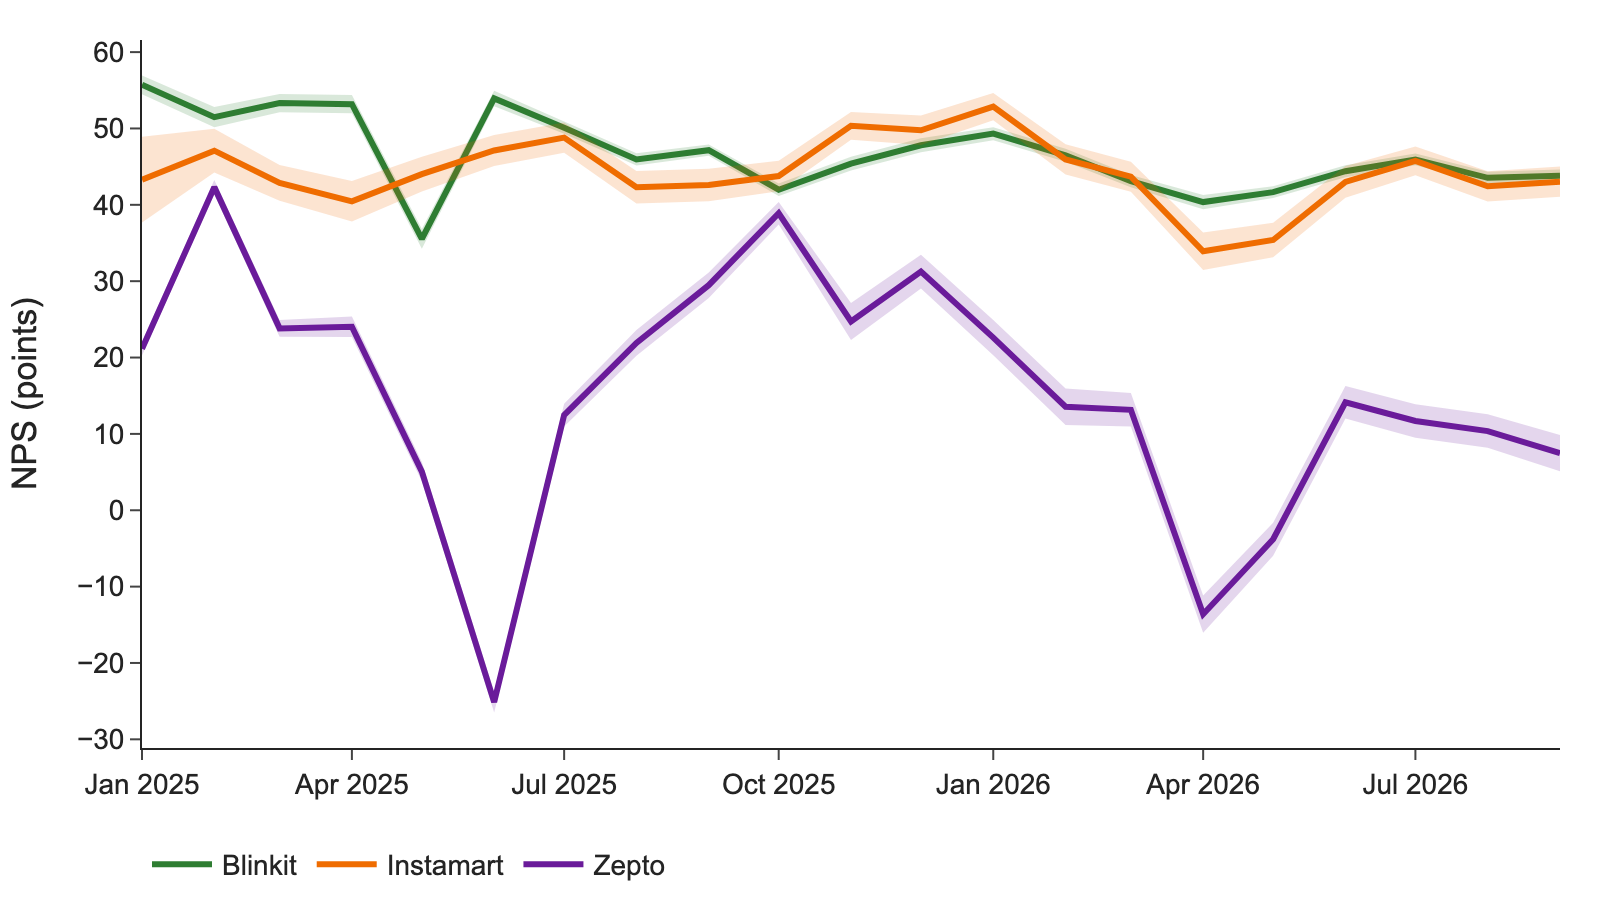
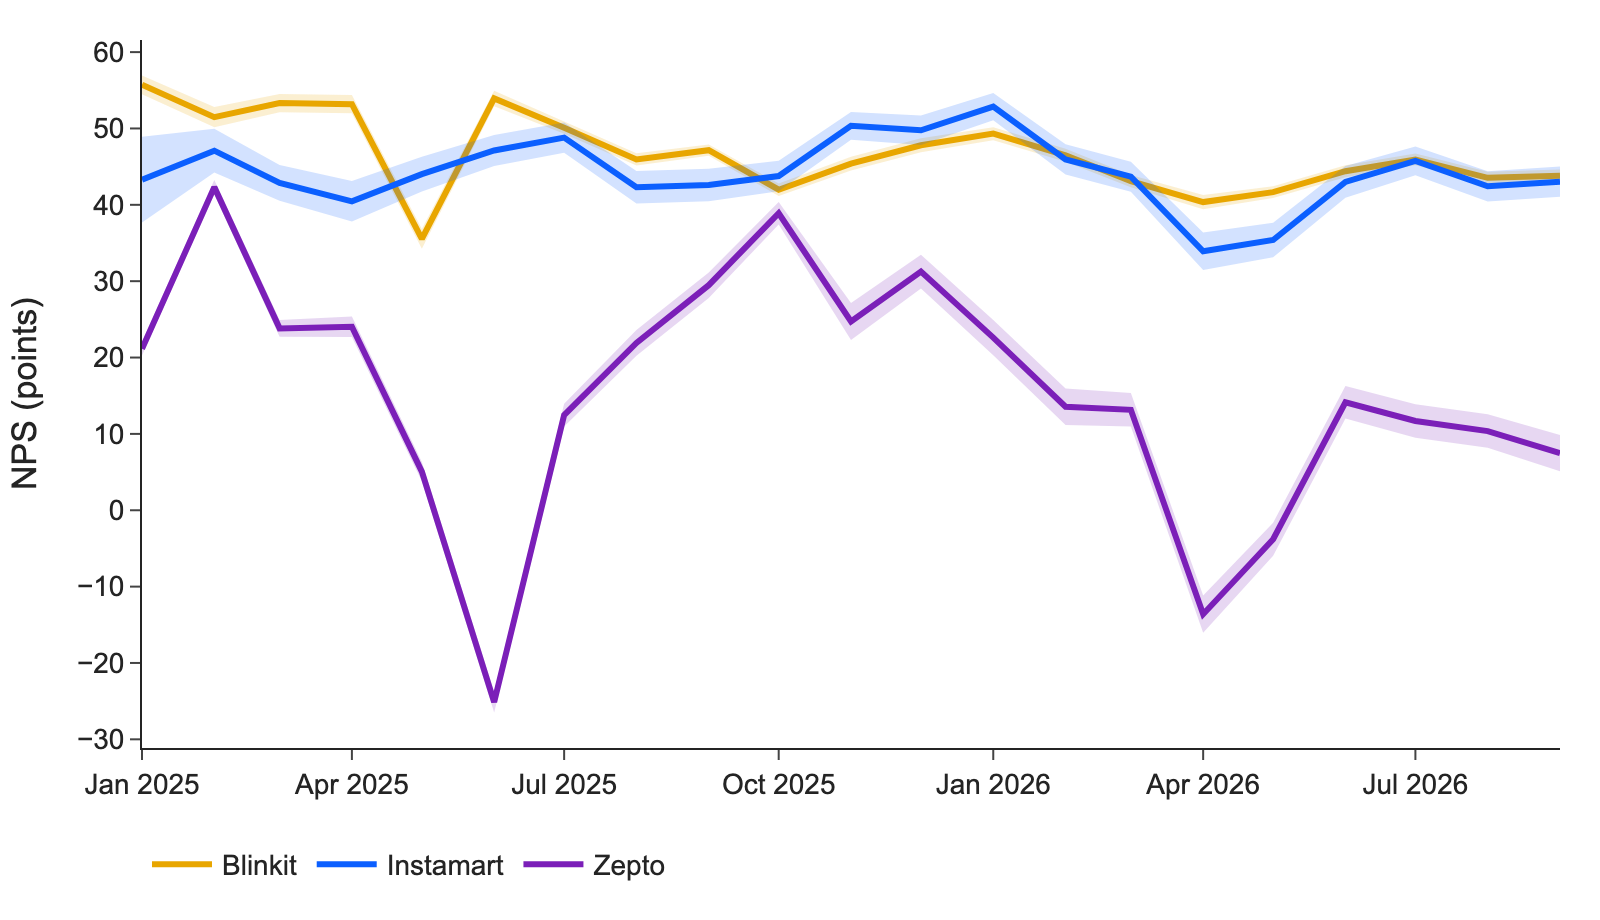
use the brand colours in charts and a red accent in the waterfall

diff --git a/src/deck_charts.py b/src/deck_charts.py
@@ -6,7 +6,7 @@ import plotly.graph_objects as go
 from driver_mix import NAMED
 from nps import COLORS, OUT, figure
 
-NAVY, PALE, GREY = "#1f4e79", "#a9c1d9", "#b9c0c8"
+RED, PALE, GREY = "#cc0000", "#e8a5a5", "#b3b3b3"
 read = lambda name: pd.read_csv(OUT / f"{name}.csv")
 label = lambda d: d.replace("_", " ")
 
@@ -29,7 +29,7 @@ def latest():
     bars = [go.Bar(name=name, x=[i.capitalize() for i in d.index], y=d["nps"], marker_color=color, text=[f"{v:.1f}" for v in d["nps"]],
                    textposition="inside", insidetextanchor="start", textfont=dict(color=font, size=15),
                    error_y=dict(type="data", array=d["moe"], color="#444444"))
-            for name, d, color, font in (("3 stars count as detractor", m, NAVY, "white"), ("3 stars count as passive", a, PALE, "#222222"))]
+            for name, d, color, font in (("3 stars count as detractor", m, RED, "white"), ("3 stars count as passive", a, PALE, "#222222"))]
     save(go.Figure(bars), "latest", 640, 380, yaxis_title="NPS (points)", barmode="group",
          legend=dict(orientation="h", y=-0.18), margin=dict(l=70, r=20, t=20, b=70))
 
@@ -39,7 +39,7 @@ def gap():
     g = read("robustness").set_index("period")["top_minus_bottom_main"]
     names = [f"Q{(t.month - 1) // 3 + 1} {t:%y}" for t in pd.to_datetime(g.index)]
     fig = go.Figure(go.Bar(x=names, y=g.values, text=g.round(1), textposition="outside",
-                           marker_color=[GREY] * (len(g) - 1) + [NAVY]))
+                           marker_color=[GREY] * (len(g) - 1) + [RED]))
     save(fig, "gap", 420, 460, yaxis_title="best minus worst NPS (points)", yaxis_range=[0, g.max() * 1.15],
          margin=dict(l=70, r=10, t=20, b=60))
 
@@ -55,7 +55,7 @@ def mix_and_heat():
     lost = m.pivot(index="driver", columns="app", values="points_lost")
     lost = lost.loc[lost.mean(axis=1).sort_values().index]
     fig = go.Figure(go.Heatmap(z=lost.values, x=[a.capitalize() for a in lost.columns], y=lost.index, showscale=False,
-                               colorscale=[[0, "#ffffff"], [1, "#6f9bc4"]], texttemplate="%{z:.1f}",
+                               colorscale=[[0, "#ffffff"], [1, "#e57373"]], texttemplate="%{z:.1f}",
                                textfont=dict(size=15, color="#222222")))
     save(fig, "heat", 540, 430, margin=dict(l=170, r=20, t=20, b=70), xaxis_side="bottom")
 
@@ -65,7 +65,7 @@ def stakes():
     t = read("bridge").query("kind == 'term'").set_index("term").loc[NAMED].sort_values("points")
     top = set(t.nlargest(3, "points").index)
     names = [label(d) for d in t.index]
-    fig = go.Figure(go.Bar(x=t["points"], y=names, orientation="h", marker_color=[NAVY if d in top else GREY for d in t.index],
+    fig = go.Figure(go.Bar(x=t["points"], y=names, orientation="h", marker_color=[RED if d in top else GREY for d in t.index],
                            error_x=dict(type="data", array=t["moe"], color="#444444")))
     fig.add_trace(go.Scatter(x=[t["points"].max() * 1.5] * len(t), y=names, mode="text", showlegend=False,
                              text=[f"{p:.1f}" for p in t["points"]], textfont=dict(size=15)))
@@ -76,8 +76,8 @@ def stakes():
 def validation():
     c = read("tagger_consistency").set_index("pair")["agreement_pct"]
     kw = read("keyword_vs_tags").set_index("driver").loc["overall", "agreement_pct"]
-    rows = [("Pass A vs pass B", c["a vs b"], NAVY), ("Pass A vs main run", c["a vs main run"], NAVY),
-            ("Pass B vs main run", c["b vs main run"], NAVY), ("Keyword list vs model tags", kw, GREY)][::-1]
+    rows = [("Pass A vs pass B", c["a vs b"], RED), ("Pass A vs main run", c["a vs main run"], RED),
+            ("Pass B vs main run", c["b vs main run"], RED), ("Keyword list vs model tags", kw, GREY)][::-1]
     fig = go.Figure(go.Bar(x=[r[1] for r in rows], y=[r[0] for r in rows], orientation="h", marker_color=[r[2] for r in rows],
                            text=[f"{r[1]:.0f}%" for r in rows], textposition="outside"))
     save(fig, "validation", 560, 240, xaxis_title="agreement (%)", xaxis_range=[0, 112], margin=dict(l=190, r=20, t=10, b=55))

diff --git a/src/nps.py b/src/nps.py
@@ -9,7 +9,7 @@ import plotly.graph_objects as go
 
 ROOT = Path(__file__).resolve().parents[1]
 OUT = ROOT / "outputs"
-COLORS = {"blinkit": "#2e7d32", "zepto": "#6a1b9a", "instamart": "#ef6c00"}
+COLORS = {"blinkit": "#e8a600", "zepto": "#7b1fb8", "instamart": "#0b5fff"}  # the brands' own colours
 
 
 def nps(grain: str = "month", detractor_max: int = 3):

diff --git a/src/bridge.py b/src/bridge.py
@@ -18,7 +18,7 @@ from driver_mix import mix
 from nps import OUT, nps
 from sample import PER_CELL
 
-ACCENT, GREY = "#1f4e79", "#9e9e9e"
+ACCENT, GREY = "#cc0000", "#9e9e9e"
 NAMES = {"promoters": "more 5 star reviews", "too_short_to_tell": "too short to tell"}
 
 
